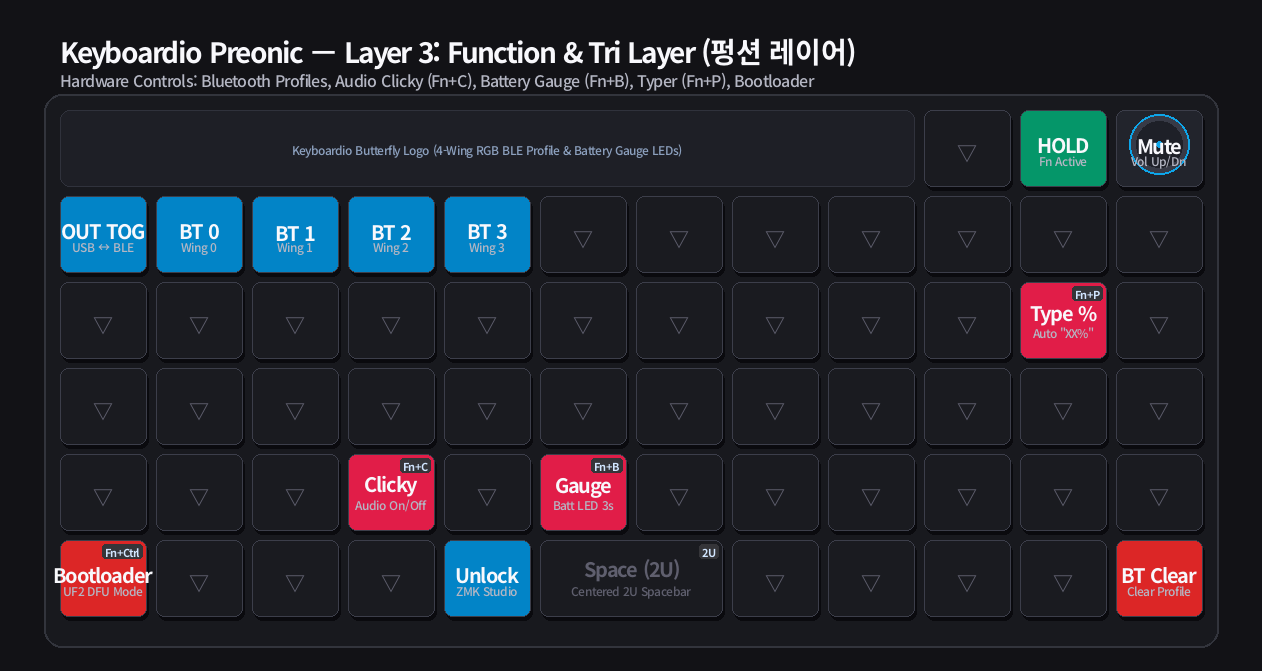
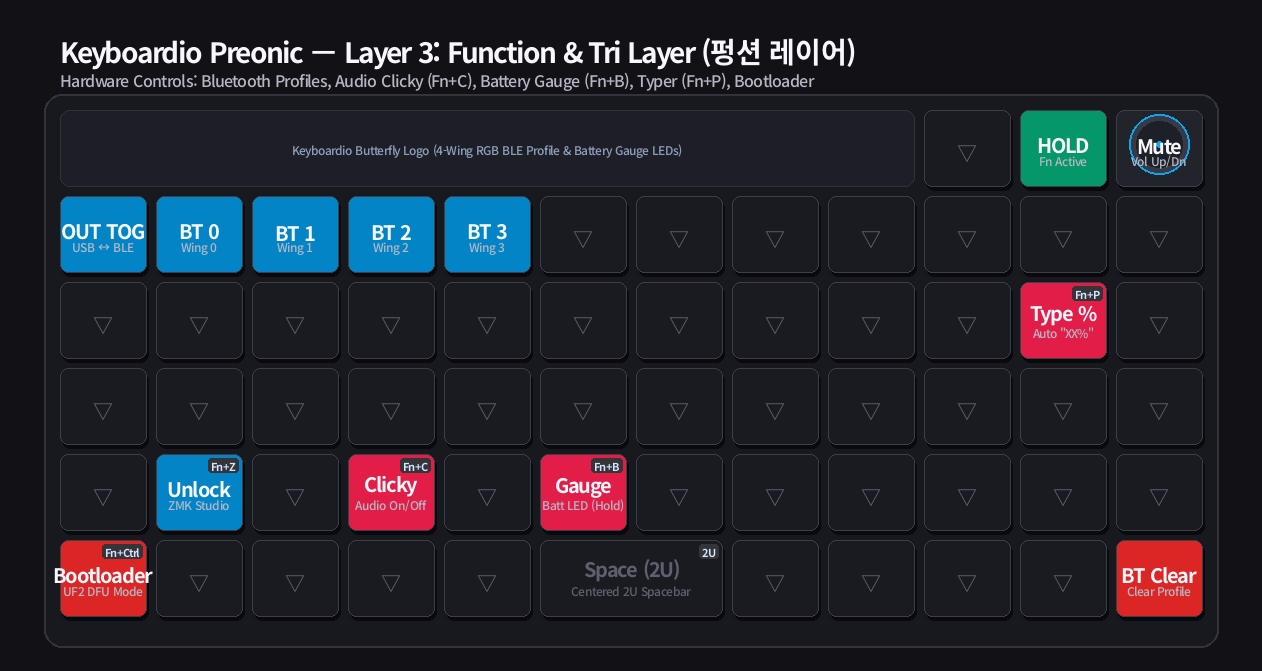
feat: hold-to-display battery gauge, move studio_unlock to Z key, and document bootloader safety

Changed region(s): [[0.1236, 0.6557, 0.2163, 0.8048], [0.3399, 0.8048, 0.4326, 0.924], [0.4326, 0.7452, 0.4945, 0.775]]

diff --git a/scripts/create_notion_keymap_page.py b/scripts/create_notion_keymap_page.py
@@ -328,13 +328,13 @@ def create_keymap_page():
         ),
         callout_block([
             rt("🔋 배터리 상태 확인 시스템 (듀얼 모니터링):\n", bold=True, color="green"),
-            rt("1. 오디오 비프음 게이지 (Fn + B):\n", bold=True),
-            rt("   • 누를 때마다 현재 배터리 전압 구간을 경쾌한 멜로디로 청각 안내합니다.\n"),
+            rt("1. 나비 LED & 오디오 비프음 게이지 (Fn + B):\n", bold=True),
+            rt("   • "),
+            rt("누르고 있는 동안만 표시(Hold)", bold=True, color="orange"),
+            rt(": Fn+B를 누르고 있는 동안 나비 날개 LED에 배터리 잔량 단계가 표시되며, 손을 떼면 즉시 원래 상태(USB 화이트/BLE 블루)로 복귀합니다.\n"),
+            rt("   • LED 날개 표시: ≥75% 4개(초록) / 50~74% 3개(라임) / 25~49% 2개(주황) / <25% 1개(빨강)\n"),
             rt("   • ≤15%: 저음 경고음 3회 연속 (15% 진입 시 1회 자동 경고 비프음 발생)\n", color="red"),
-            rt("   • 16% ~ 39%: 단음 1회 (도)\n"),
-            rt("   • 40% ~ 69%: 2중음 (도 - 미)\n"),
-            rt("   • 70% ~ 89%: 3중음 팡파르 (도 - 미 - 솔)\n"),
-            rt("   • ≥90%: 4중음 상승 아르페지오 (도 - 미 - 솔 - 높은도)\n\n"),
+            rt("   • 16% ~ 39%: 단음 1회 (도) / 40% ~ 69%: 2중음 (도 - 미) / 70% ~ 89%: 3중음 / ≥90%: 4중음 아르페지오\n\n"),
             rt("2. 텍스트 백분율 자동 타이퍼 (Fn + P):\n", bold=True),
             rt("   • 현재 배터리 잔량을 화면 커서 위치에 ", bold=True),
             rt("XX%", bold=True, color="orange"),
@@ -347,18 +347,25 @@ def create_keymap_page():
             rt("• On 전환 시 상승 알림음, Off 전환 시 하강 알림음이 울립니다.")
         ], emoji="🔊", color="gray_background"),
         callout_block([
-            rt("📡 블루투스(BLE) 및 출력 모드 제어:\n", bold=True, color="blue"),
+            rt("📡 블루투스(BLE) 및 USB 유무선 제어:\n", bold=True, color="blue"),
             rt("• Fn + Q / W / E: ", bold=True), rt("BLE 프로필 1, 2, 3번 즉시 전환\n"),
             rt("• Fn + T: ", bold=True), rt("현재 활성화된 프로필의 BLE 페어링 정보 초기화 (&bt BT_CLR)\n"),
-            rt("• Fn + Y: ", bold=True), rt("USB 유선 출력과 블루투스 무선 출력 모드 수동 토글 (&out OUT_TOG)")
+            rt("• Fn + Y: ", bold=True), rt("USB 유선 출력과 블루투스 무선 출력 모드 수동 토글 (&out OUT_TOG)\n"),
+            rt("• 나비 LED 색상: USB 모드는 화이트(White), BLE 모드는 블루(Cyan/Blue)로 점등되어 배터리 게이지와 확실히 구별됩니다.")
         ], emoji="📡", color="gray_background"),
         callout_block([
-            rt("⚠ 부트로더 진입 (Fn + LCtrl):\n", bold=True, color="orange"),
+            rt("🛠 부트로더 진입 (Fn + LCtrl):\n", bold=True, color="orange"),
             rt("• 하단 좌측의 LCtrl 키 위치를 누르면 즉시 "),
             rt("UF2 펌웨어 드라이브 모드로 재기동", bold=True, color="orange"),
             rt("합니다.\n"),
-            rt("• 번거롭게 기판 뒷면의 리셋 버튼을 두 번 누르지 않고도 키보드 조합키만으로 신규 펌웨어를 즉시 드래그앤드롭 할 수 있습니다.")
+            rt("• 블루투스 설정 보존: 부트로더 모드 진입 시 기존 블루투스 페어링/설정은 전혀 초기화되지 않고 안전하게 보존됩니다.\n"),
+            rt("• 실수 진입 시 복귀 방법: 키보드 뒷면 리셋 버튼 1회 클릭, 또는 USB 케이블 재연결 / PC 탐색기에서 '꺼내기(Eject)'를 누르면 일반 키보드 모드로 즉시 정상 복귀합니다.")
         ], emoji="🛠", color="orange_background"),
+        callout_block([
+            rt("🔓 ZMK Studio 잠금 해제 (Fn + Z):\n", bold=True, color="blue"),
+            rt("• ZMK Studio 웹 앱에서 실시간으로 키맵을 편집할 수 있도록 키보드 보안 잠금을 해제(&studio_unlock)합니다.\n"),
+            rt("• 레이어 키(Lower)와의 중복 간섭을 방지하기 위해 Z 키 위치에 안전하게 독립 배치되었습니다.")
+        ], emoji="🔓", color="gray_background"),
         divider_block()
     ]
 
@@ -375,9 +382,9 @@ def create_keymap_page():
                 [rt("동작 설명", bold=True)]
             ]),
             table_row_block([
-                [rt("배터리 청각 확인", bold=True)],
-                [rt("Fn + B", code=True)],
-                "오디오 비프음으로 배터리 구간 알림 (15% 이하 시 3회 경고음)"
+                [rt("배터리 청각/시각 확인", bold=True)],
+                [rt("Fn + B (Hold)", code=True)],
+                "누르고 있는 동안 나비 날개 LED에 잔량 표시 및 비프음 재생"
             ]),
             table_row_block([
                 [rt("배터리 화면 출력", bold=True)],
@@ -392,7 +399,12 @@ def create_keymap_page():
             table_row_block([
                 [rt("부트로더 모드", bold=True)],
                 [rt("Fn + LCtrl", code=True)],
-                "펌웨어 업데이트용 UF2 드라이브 진입"
+                "펌웨어 업데이트용 UF2 드라이브 진입 (블루투스 설정 보존)"
+            ]),
+            table_row_block([
+                [rt("ZMK Studio 잠금 해제", bold=True)],
+                [rt("Fn + Z", code=True)],
+                "실시간 키맵 수정 웹 앱 보안 잠금 해제"
             ]),
             table_row_block([
                 [rt("BLE 프로필 전환", bold=True)],

diff --git a/src/butterfly_status.c b/src/butterfly_status.c
@@ -64,7 +64,6 @@ static bool blink_state = false;
 static enum zmk_activity_state current_activity = ZMK_ACTIVITY_ACTIVE;
 
 static bool is_battery_gauge = false;
-static int64_t battery_gauge_end_time = 0;
 static bool low_battery_warned = false;
 
 static inline struct led_rgb make_rgb(uint8_t r, uint8_t g, uint8_t b) {
@@ -128,42 +127,36 @@ static void butterfly_work_handler(struct k_work *work) {
 #endif
 
     if (is_battery_gauge) {
-        int64_t remaining = battery_gauge_end_time - k_uptime_get();
-        if (remaining > 0) {
-            uint8_t soc = zmk_battery_state_of_charge();
-            uint8_t brt = (uint8_t)CONFIG_BUTTERFLY_BRIGHTNESS;
-            struct led_rgb pixels[BUTTERFLY_NUM_LEDS];
-            for (size_t i = 0; i < BUTTERFLY_NUM_LEDS; i++) {
-                pixels[i] = make_rgb(0, 0, 0);
-            }
-
-            if (soc >= 75) {
-                // 4 wings green
-                for (size_t i = 0; i < 4 && i < BUTTERFLY_NUM_LEDS; i++) {
-                    pixels[i] = make_rgb(0, brt, 0);
-                }
-            } else if (soc >= 50) {
-                // 3 wings lime green
-                for (size_t i = 0; i < 3 && i < BUTTERFLY_NUM_LEDS; i++) {
-                    pixels[i] = make_rgb((uint8_t)(((uint16_t)brt * 40) / 100), brt, 0);
-                }
-            } else if (soc >= 25) {
-                // 2 wings orange
-                for (size_t i = 0; i < 2 && i < BUTTERFLY_NUM_LEDS; i++) {
-                    pixels[i] = make_rgb(brt, (uint8_t)(((uint16_t)brt * 30) / 100), 0);
-                }
-            } else {
-                // 1 wing red
-                if (BUTTERFLY_NUM_LEDS > 0) {
-                    pixels[0] = make_rgb(brt, 0, 0);
-                }
-            }
-            update_leds(pixels);
-            k_work_reschedule(&butterfly_work, K_MSEC(remaining + 5));
-            return;
+        uint8_t soc = zmk_battery_state_of_charge();
+        uint8_t brt = (uint8_t)CONFIG_BUTTERFLY_BRIGHTNESS;
+        struct led_rgb pixels[BUTTERFLY_NUM_LEDS];
+        for (size_t i = 0; i < BUTTERFLY_NUM_LEDS; i++) {
+            pixels[i] = make_rgb(0, 0, 0);
         }
-        is_battery_gauge = false;
-        state_change_time = k_uptime_get();
+
+        if (soc >= 75) {
+            // 4 wings green
+            for (size_t i = 0; i < 4 && i < BUTTERFLY_NUM_LEDS; i++) {
+                pixels[i] = make_rgb(0, brt, 0);
+            }
+        } else if (soc >= 50) {
+            // 3 wings lime green
+            for (size_t i = 0; i < 3 && i < BUTTERFLY_NUM_LEDS; i++) {
+                pixels[i] = make_rgb((uint8_t)(((uint16_t)brt * 40) / 100), brt, 0);
+            }
+        } else if (soc >= 25) {
+            // 2 wings orange
+            for (size_t i = 0; i < 2 && i < BUTTERFLY_NUM_LEDS; i++) {
+                pixels[i] = make_rgb(brt, (uint8_t)(((uint16_t)brt * 30) / 100), 0);
+            }
+        } else {
+            // 1 wing red
+            if (BUTTERFLY_NUM_LEDS > 0) {
+                pixels[0] = make_rgb(brt, 0, 0);
+            }
+        }
+        update_leds(pixels);
+        return;
     }
 
     struct led_rgb pixels[BUTTERFLY_NUM_LEDS];
@@ -273,7 +266,6 @@ void butterfly_show_battery(void) {
     }
     boot_anim_done = true;
     is_battery_gauge = true;
-    battery_gauge_end_time = k_uptime_get() + 3000;
     k_work_reschedule(&butterfly_work, K_NO_WAIT);
 }
 
@@ -307,19 +299,31 @@ static int butterfly_event_listener(const zmk_event_t *eh) {
 
     const struct zmk_position_state_changed *pos_ev = as_zmk_position_state_changed(eh);
     if (pos_ev != NULL) {
-        if (!pos_ev->state) {
-            return 0;
-        }
         boot_anim_done = true;
 
-        if (zmk_keymap_layer_active(FN_LAYER_INDEX) || zmk_keymap_layer_active(TRI_LAYER_INDEX)) {
-            if (pos_ev->position == B_KEY_POSITION) {
-                butterfly_show_battery();
-                return 0;
-            } else if (pos_ev->position == P_KEY_POSITION) {
-                preonic_type_battery_status();
-                return 0;
+        if (pos_ev->state) {
+            // Key press
+            if (zmk_keymap_layer_active(FN_LAYER_INDEX) || zmk_keymap_layer_active(TRI_LAYER_INDEX)) {
+                if (pos_ev->position == B_KEY_POSITION) {
+                    butterfly_show_battery();
+                    return 0;
+                } else if (pos_ev->position == P_KEY_POSITION) {
+                    preonic_type_battery_status();
+                    return 0;
+                }
             }
+        } else {
+            // Key release: if battery gauge is currently showing, turn off immediately on B release or layer exit
+            if (is_battery_gauge) {
+                if (pos_ev->position == B_KEY_POSITION ||
+                    (!zmk_keymap_layer_active(FN_LAYER_INDEX) && !zmk_keymap_layer_active(TRI_LAYER_INDEX))) {
+                    is_battery_gauge = false;
+                    state_change_time = k_uptime_get();
+                    k_work_reschedule(&butterfly_work, K_NO_WAIT);
+                    return 0;
+                }
+            }
+            return 0;
         }
     }
 

diff --git a/scripts/generate_keymap_images.py b/scripts/generate_keymap_images.py
@@ -396,25 +396,25 @@ func_keys = [
     {"col": 9, "row": 3, "main": "▽", "bg": COLOR_TRANS, "fg": TEXT_DIM},
     {"col": 10, "row": 3, "main": "▽", "bg": COLOR_TRANS, "fg": TEXT_DIM},
     {"col": 11, "row": 3, "main": "▽", "bg": COLOR_TRANS, "fg": TEXT_DIM},
-    # Row 4 (Clicky on C, Gauge on B)
+    # Row 4 (Studio Unlock on Z, Clicky on C, Gauge on B)
     {"col": 0, "row": 4, "main": "▽", "bg": COLOR_TRANS, "fg": TEXT_DIM},
-    {"col": 1, "row": 4, "main": "▽", "bg": COLOR_TRANS, "fg": TEXT_DIM},
+    {"col": 1, "row": 4, "main": "Unlock", "sub": "ZMK Studio", "bg": COLOR_BLE, "tag": "Fn+Z"},
     {"col": 2, "row": 4, "main": "▽", "bg": COLOR_TRANS, "fg": TEXT_DIM},
     {"col": 3, "row": 4, "main": "Clicky", "sub": "Audio On/Off", "bg": COLOR_FEATURE, "tag": "Fn+C"},
     {"col": 4, "row": 4, "main": "▽", "bg": COLOR_TRANS, "fg": TEXT_DIM},
-    {"col": 5, "row": 4, "main": "Gauge", "sub": "Batt LED 3s", "bg": COLOR_FEATURE, "tag": "Fn+B"},
+    {"col": 5, "row": 4, "main": "Gauge", "sub": "Batt LED (Hold)", "bg": COLOR_FEATURE, "tag": "Fn+B"},
     {"col": 6, "row": 4, "main": "▽", "bg": COLOR_TRANS, "fg": TEXT_DIM},
     {"col": 7, "row": 4, "main": "▽", "bg": COLOR_TRANS, "fg": TEXT_DIM},
     {"col": 8, "row": 4, "main": "▽", "bg": COLOR_TRANS, "fg": TEXT_DIM},
     {"col": 9, "row": 4, "main": "▽", "bg": COLOR_TRANS, "fg": TEXT_DIM},
     {"col": 10, "row": 4, "main": "▽", "bg": COLOR_TRANS, "fg": TEXT_DIM},
     {"col": 11, "row": 4, "main": "▽", "bg": COLOR_TRANS, "fg": TEXT_DIM},
-    # Row 5 (Bootloader, Studio Unlock, BT Clear)
+    # Row 5 (Bootloader, BT Clear)
     {"col": 0, "row": 5, "main": "Bootloader", "sub": "UF2 DFU Mode", "bg": COLOR_DANGER, "tag": "Fn+Ctrl"},
     {"col": 1, "row": 5, "main": "▽", "bg": COLOR_TRANS, "fg": TEXT_DIM},
     {"col": 2, "row": 5, "main": "▽", "bg": COLOR_TRANS, "fg": TEXT_DIM},
     {"col": 3, "row": 5, "main": "▽", "bg": COLOR_TRANS, "fg": TEXT_DIM},
-    {"col": 4, "row": 5, "main": "Unlock", "sub": "ZMK Studio", "bg": COLOR_BLE},
+    {"col": 4, "row": 5, "main": "▽", "bg": COLOR_TRANS, "fg": TEXT_DIM},
     {"col": 5, "row": 5, "span": 2.0, "main": "Space (2U)", "sub": "Centered 2U Spacebar", "bg": COLOR_TRANS, "tag": "2U", "fg": TEXT_DIM},
     {"col": 7, "row": 5, "main": "▽", "bg": COLOR_TRANS, "fg": TEXT_DIM},
     {"col": 8, "row": 5, "main": "▽", "bg": COLOR_TRANS, "fg": TEXT_DIM},

diff --git a/README.md b/README.md
@@ -57,12 +57,12 @@ Custom ZMK firmware configuration specifically developed for the **Keyboardio Pr
   * `Grave` position: `&out OUT_TOG` (Toggle between USB and BLE output)
   * `1` ~ `4`: `&bt BT_SEL 0` ~ `&bt BT_SEL 3` (Select Bluetooth profiles 0 to 3, max 4 devices)
 * **Alphabet Rows**:
+  * `Z` position: `&studio_unlock` (Unlock ZMK Studio)
   * `C` position: **Audio Clicky Toggle** (`Fn + C` toggles typing click sound on/off; high tone for ON, low tone for OFF)
-  * `B` position: **Butterfly Battery Gauge** (`Fn + B` shows 4-level LED battery gauge for 3 seconds; beeps if <= 15%)
+  * `B` position: **Butterfly Battery Gauge** (`Fn + B` shows 4-level LED battery gauge while held; beeps if <= 15%)
   * `P` position: **Battery Status Typer** (`Fn + P` types out `"XX%"`)
 * **Bottom Row**:
   * `LCTRL` position: `&bootloader` (Enter DFU bootloader mode)
-  * `Lower` position: `&studio_unlock` (Unlock ZMK Studio)
   * `Right` position: `&bt BT_CLR` (Clear current Bluetooth bonding)
 
 ---
@@ -152,12 +152,12 @@ The Keyboardio Preonic features a distinctive butterfly logo illuminated by 4 ad
   * `Grave` 자리: **`&out OUT_TOG`** (USB 유선 / 블루투스 무선 출력 모드 전환)
   * `1 ~ 4` 자리: **`&bt BT_SEL 0 ~ 3`** (블루투스 기기 프로필 0번 ~ 3번, 총 4대 선택)
 * **알파벳 행**:
+  * `Z` 자리: **`&studio_unlock`** (ZMK Studio 잠금 해제)
   * `C` 자리: **오디오 클릭키 On/Off 토글** (`Fn + C` 입력 시 타이핑 클릭 소리를 켜고 끄며, 켤 때 높은 톤 / 끌 때 낮은 톤 확인음 제공)
-  * `B` 자리: **나비 배터리 게이지** (`Fn + B` 입력 시 3초간 4단계 나비 LED 잔량 게이지 표시, 15% 이하 시 경고 비프음 출력)
+  * `B` 자리: **나비 배터리 게이지** (`Fn + B` 누르고 있는 동안 4단계 나비 LED 잔량 게이지 표시, 15% 이하 시 경고 비프음 출력)
   * `P` 자리: **배터리 잔량 자동 타이핑** (`Fn + P` 입력 시 `"XX%"` 텍스트 자동 타이핑)
 * **하단 행**:
   * `LCTRL` 자리: **`&bootloader`** (USB 외장 드라이브 부트로더 모드 진입)
-  * `Lower` 자리: **`&studio_unlock`** (ZMK Studio 잠금 해제)
   * `Right` 자리: **`&bt BT_CLR`** (현재 연결된 블루투스 페어링 정보 삭제)
 
 ---
